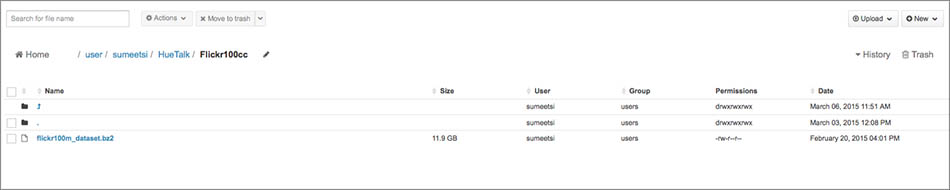
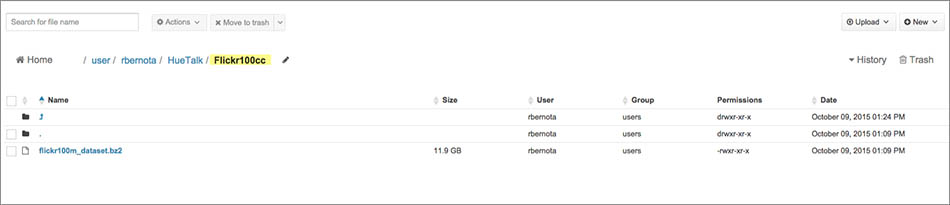
Reformatted tip and updated screenshots.

diff --git a/external/hue/guide/getting_started/index.rst b/external/hue/guide/getting_started/index.rst
@@ -191,20 +191,18 @@ and then view the results in Hue.
 
 #. Click the **/user** path. 
 #. Click the **pen** symbol next to the **/user** path, type **/rbernota**, and then the press the **enter** key.
-   TBD: Need to change screenshot once Rick makes it accessible to users.
 
-   .. image:: images/sumeet_dir.jpg
-      :height: 285px
+   .. image:: images/rbernota_dir.jpg
+      :height: 276px
       :width: 950 px
       :scale: 90%
-      :alt: Hue Sumeet Directory
+      :alt: Hue Rick Bernotas Directory
       :align: left 
 
 #. From the **File Browser**, navigate to the directory ``/user/rbernota/HueTalk/Flickr100cc``.
-   TBD: Need to change screenshot.
 
    .. image:: images/hue_talk_dataset.jpg
-      :height: 190px
+      :height: 205px
       :width: 950 px
       :scale: 90%
       :alt: Hue Talk Dataset 
@@ -232,13 +230,13 @@ and then view the results in Hue.
       :align: left 
 
 
-.. tip:: The **File Browser** also lets you do the 
-         following with files and directories:
+   .. tip:: The **File Browser** also lets you do the 
+            following with files and directories:
 
-         - change permissions
-         - rename 
-         - delete and create 
-         - upload 
+            - change permissions
+            - rename 
+            - delete and create 
+            - upload 
 
 
 .. _hue_getting_started-create_db_tables:
